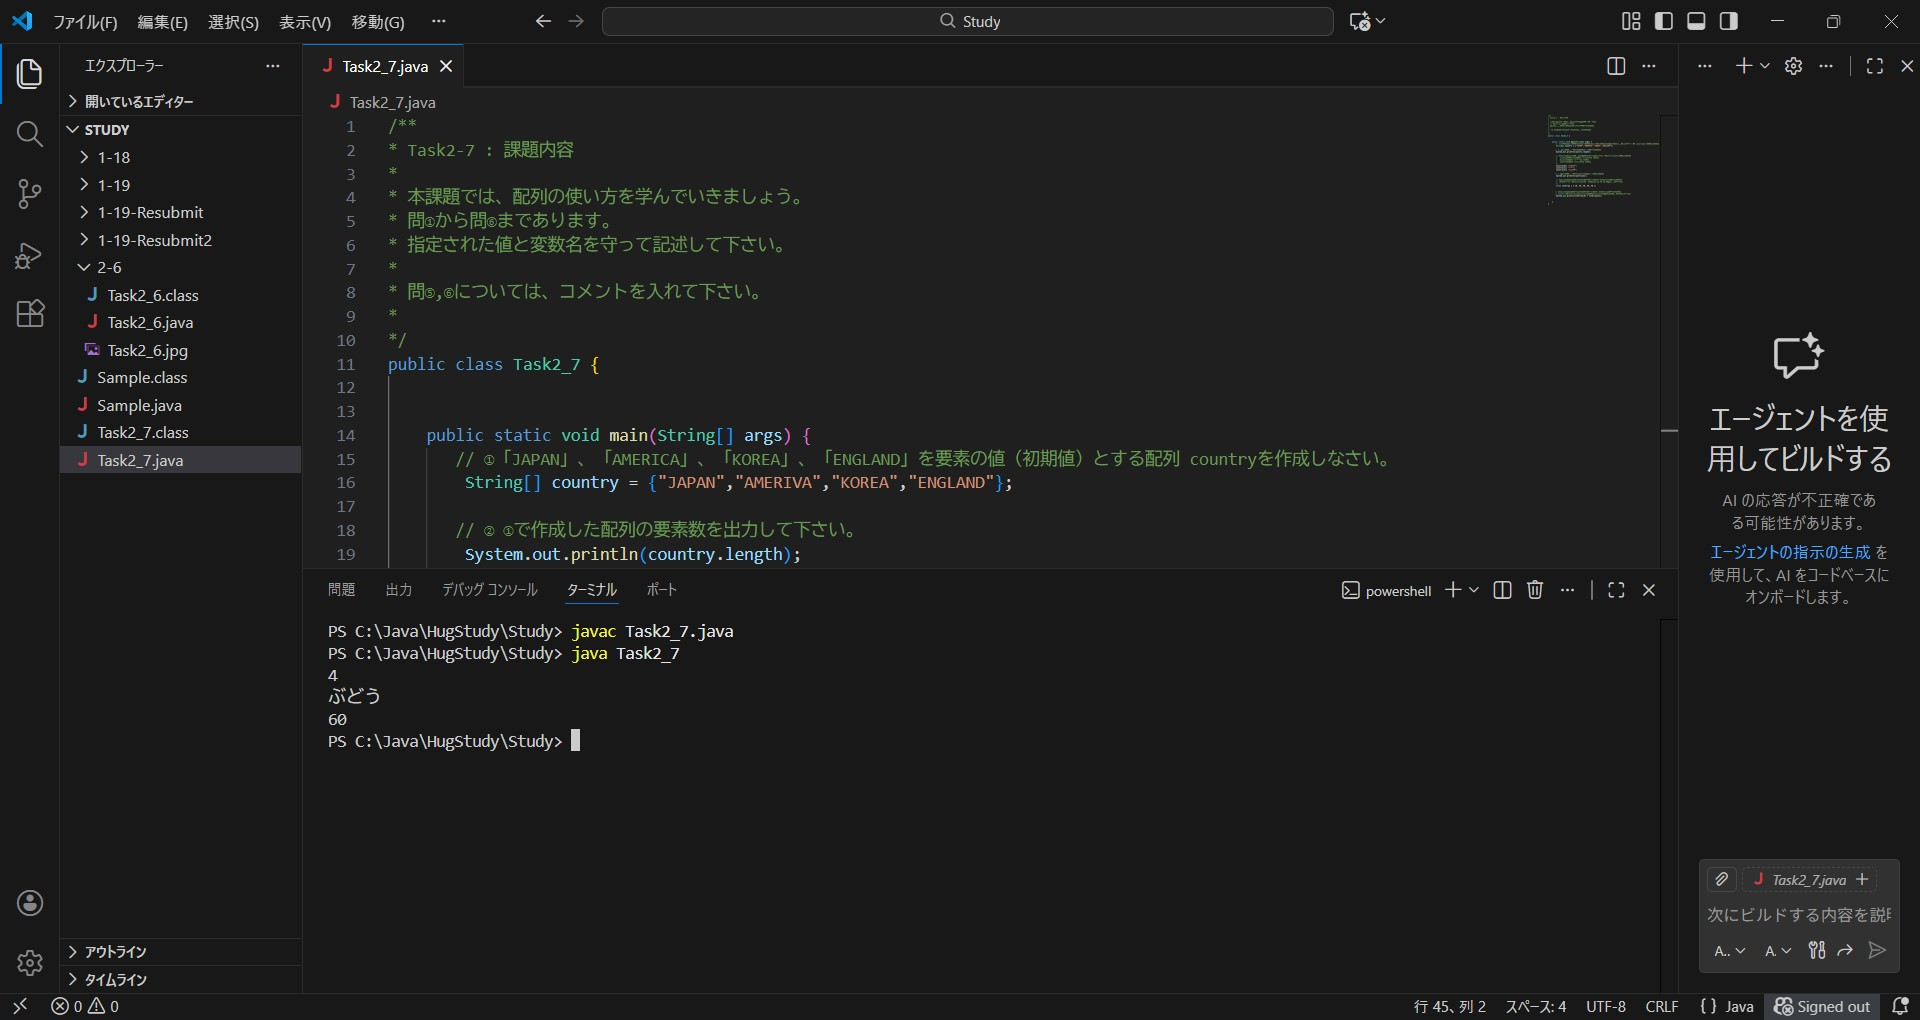
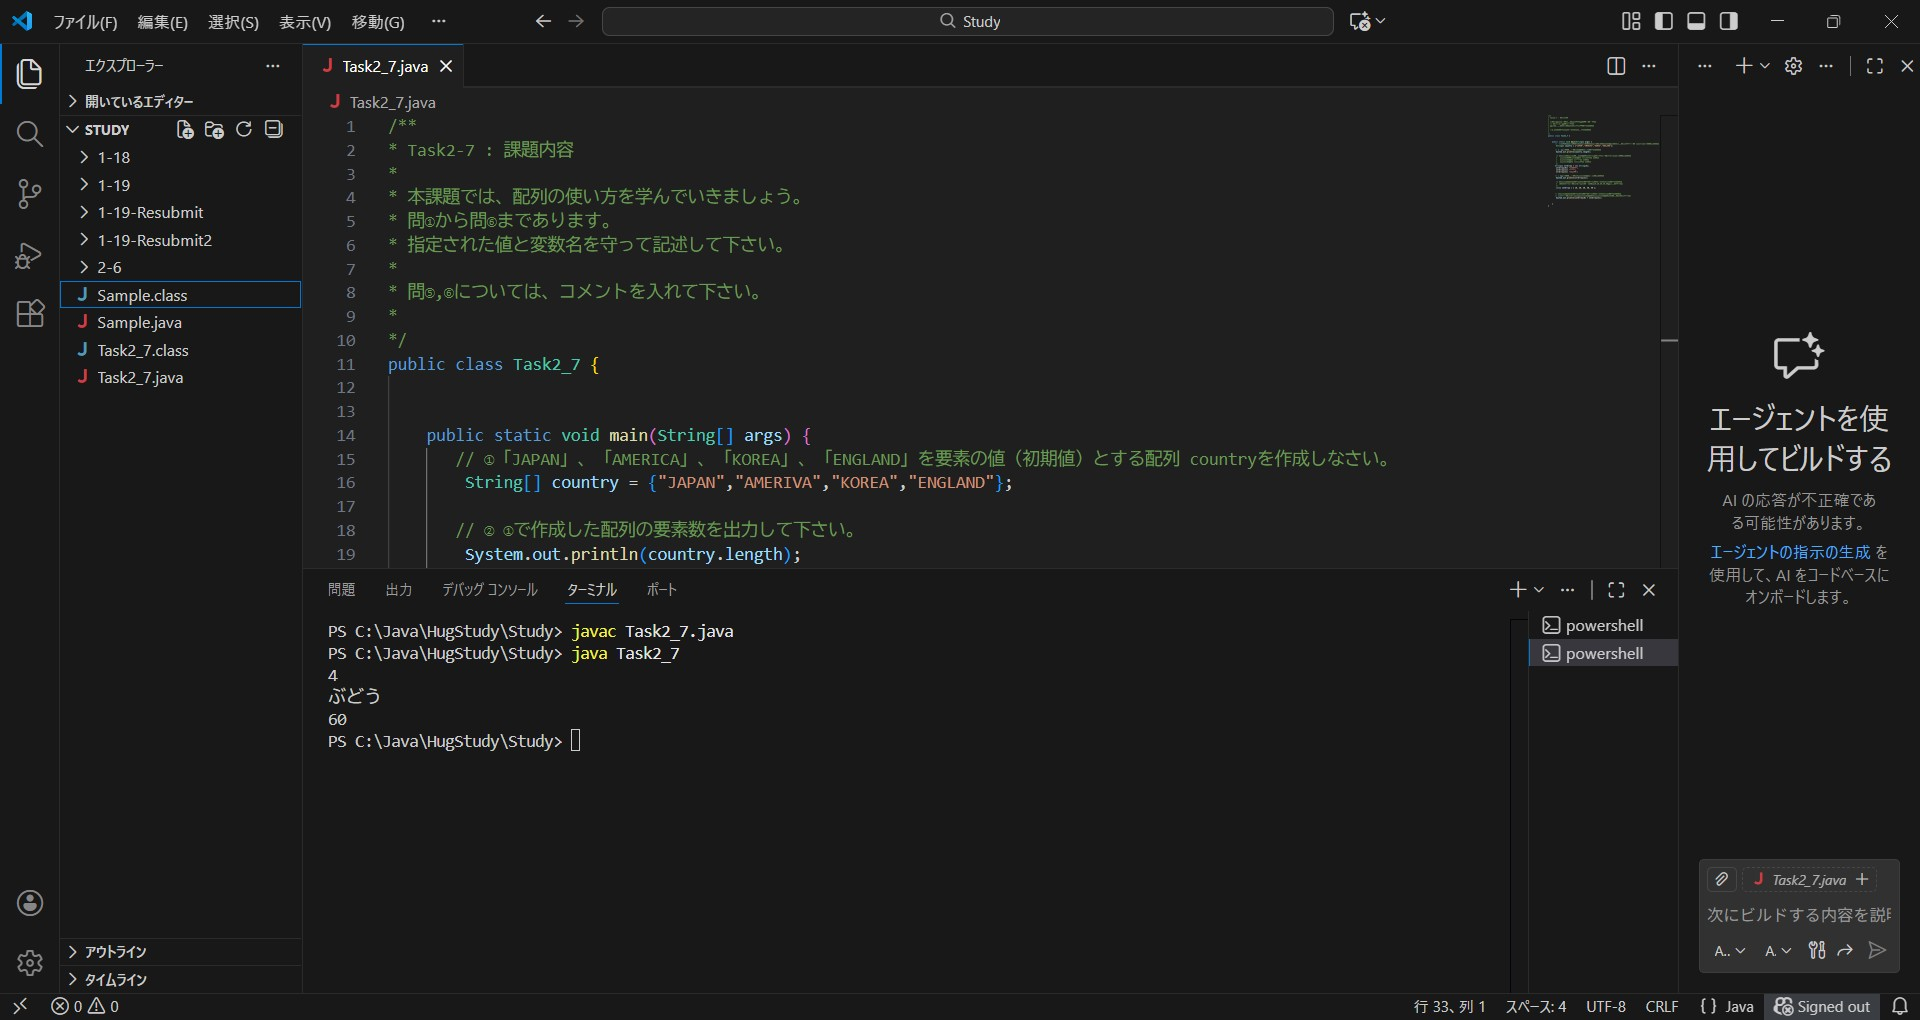
2-7

diff --git a/Study/2-7/Task2_7.java b/Study/2-7/Task2_7.java
@@ -23,12 +23,13 @@ public class Task2_7 {
         *   2番目の要素に 「もも」 を代入
         *   3番目の要素に 「ぶどう」 を代入
         */
-        country[0]= "りんご";
-        country[1]= "もも";
-        country[2]= "ぶどう";
+       String[] strArray = new String[3];
+        strArray[0]= "りんご";
+        strArray[1]= "もも";
+        strArray[2]= "ぶどう";
 
        // ④ ③で作成した配列の3番目の要素を出力しなさい。
-        System.out.println(country[2]);
+        System.out.println(strArray[2]);
 
         /* ⑤下記の処理について、何をしているのかコメントを記入して下さい。
         *  [イント型の配列intArrayの宣言をし、10,20,30,40,50で初期化する。]
